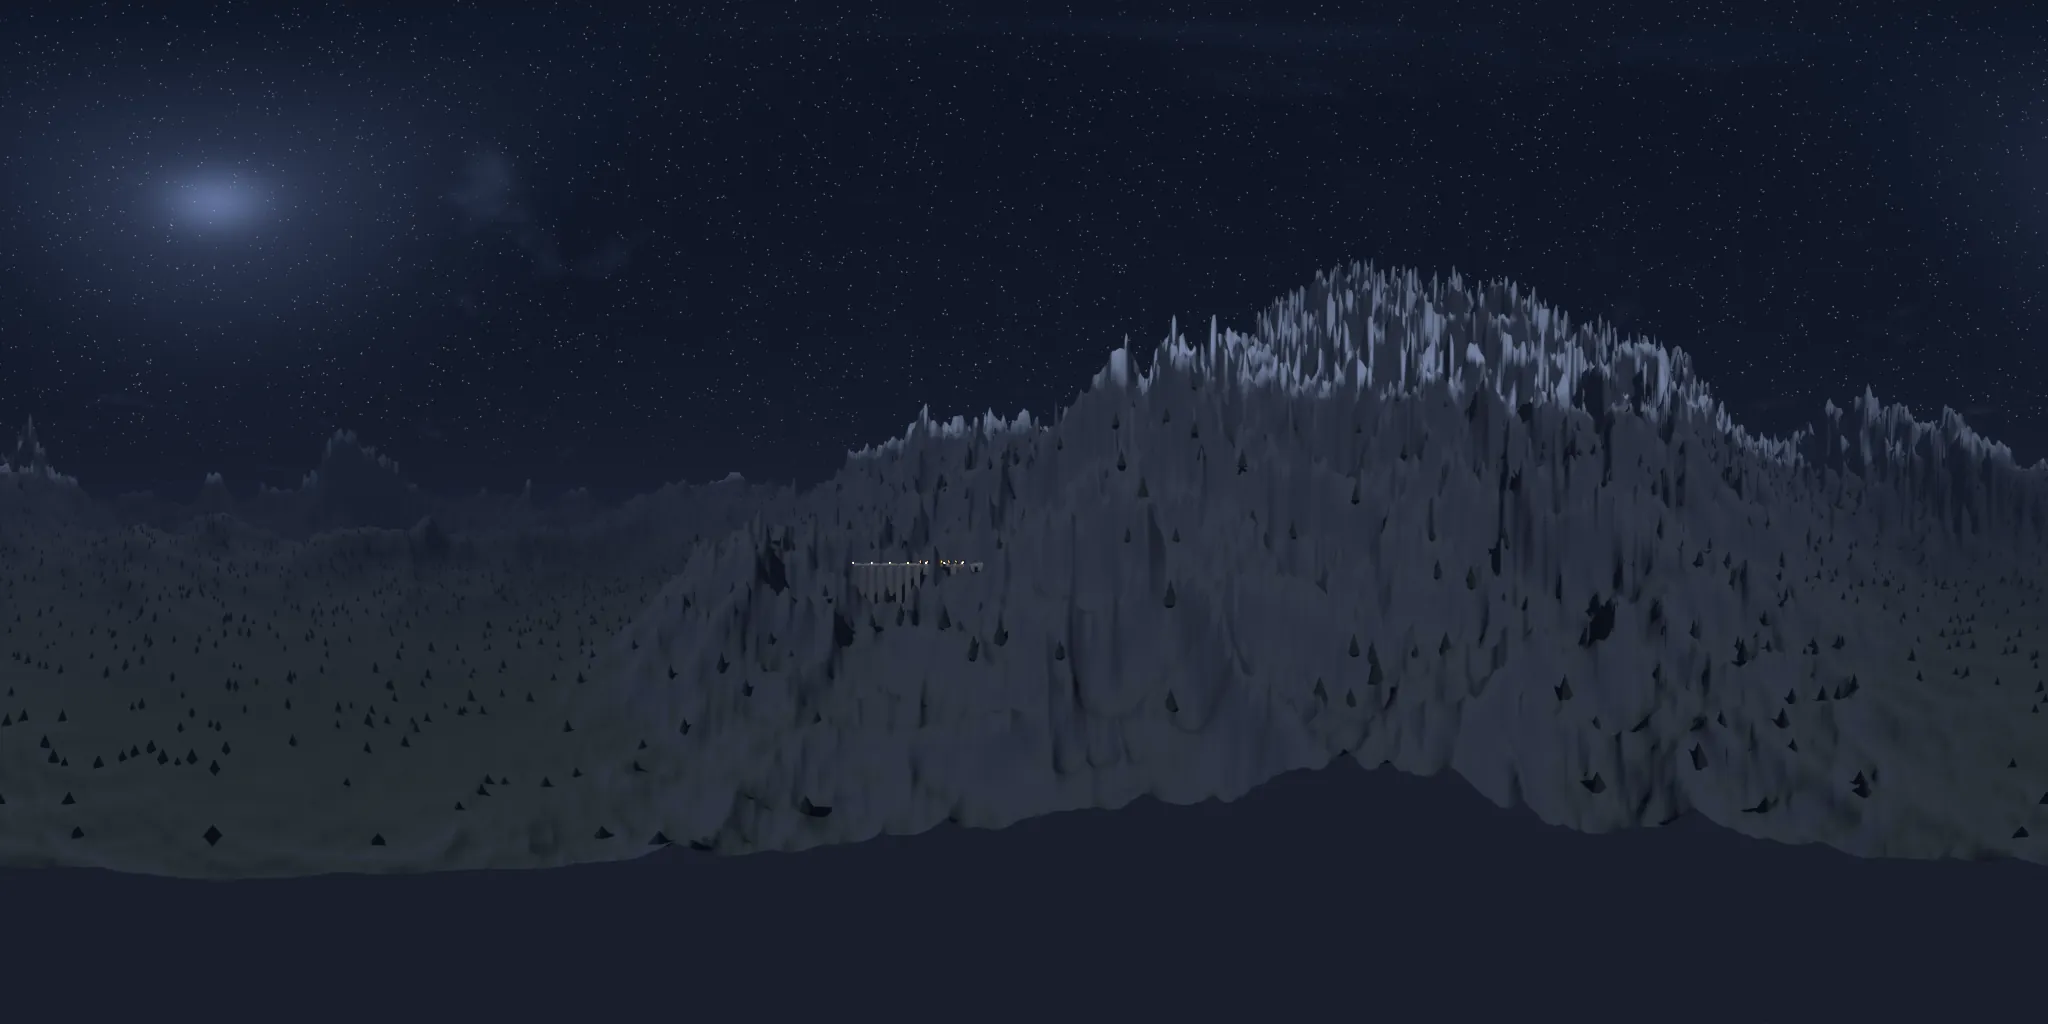
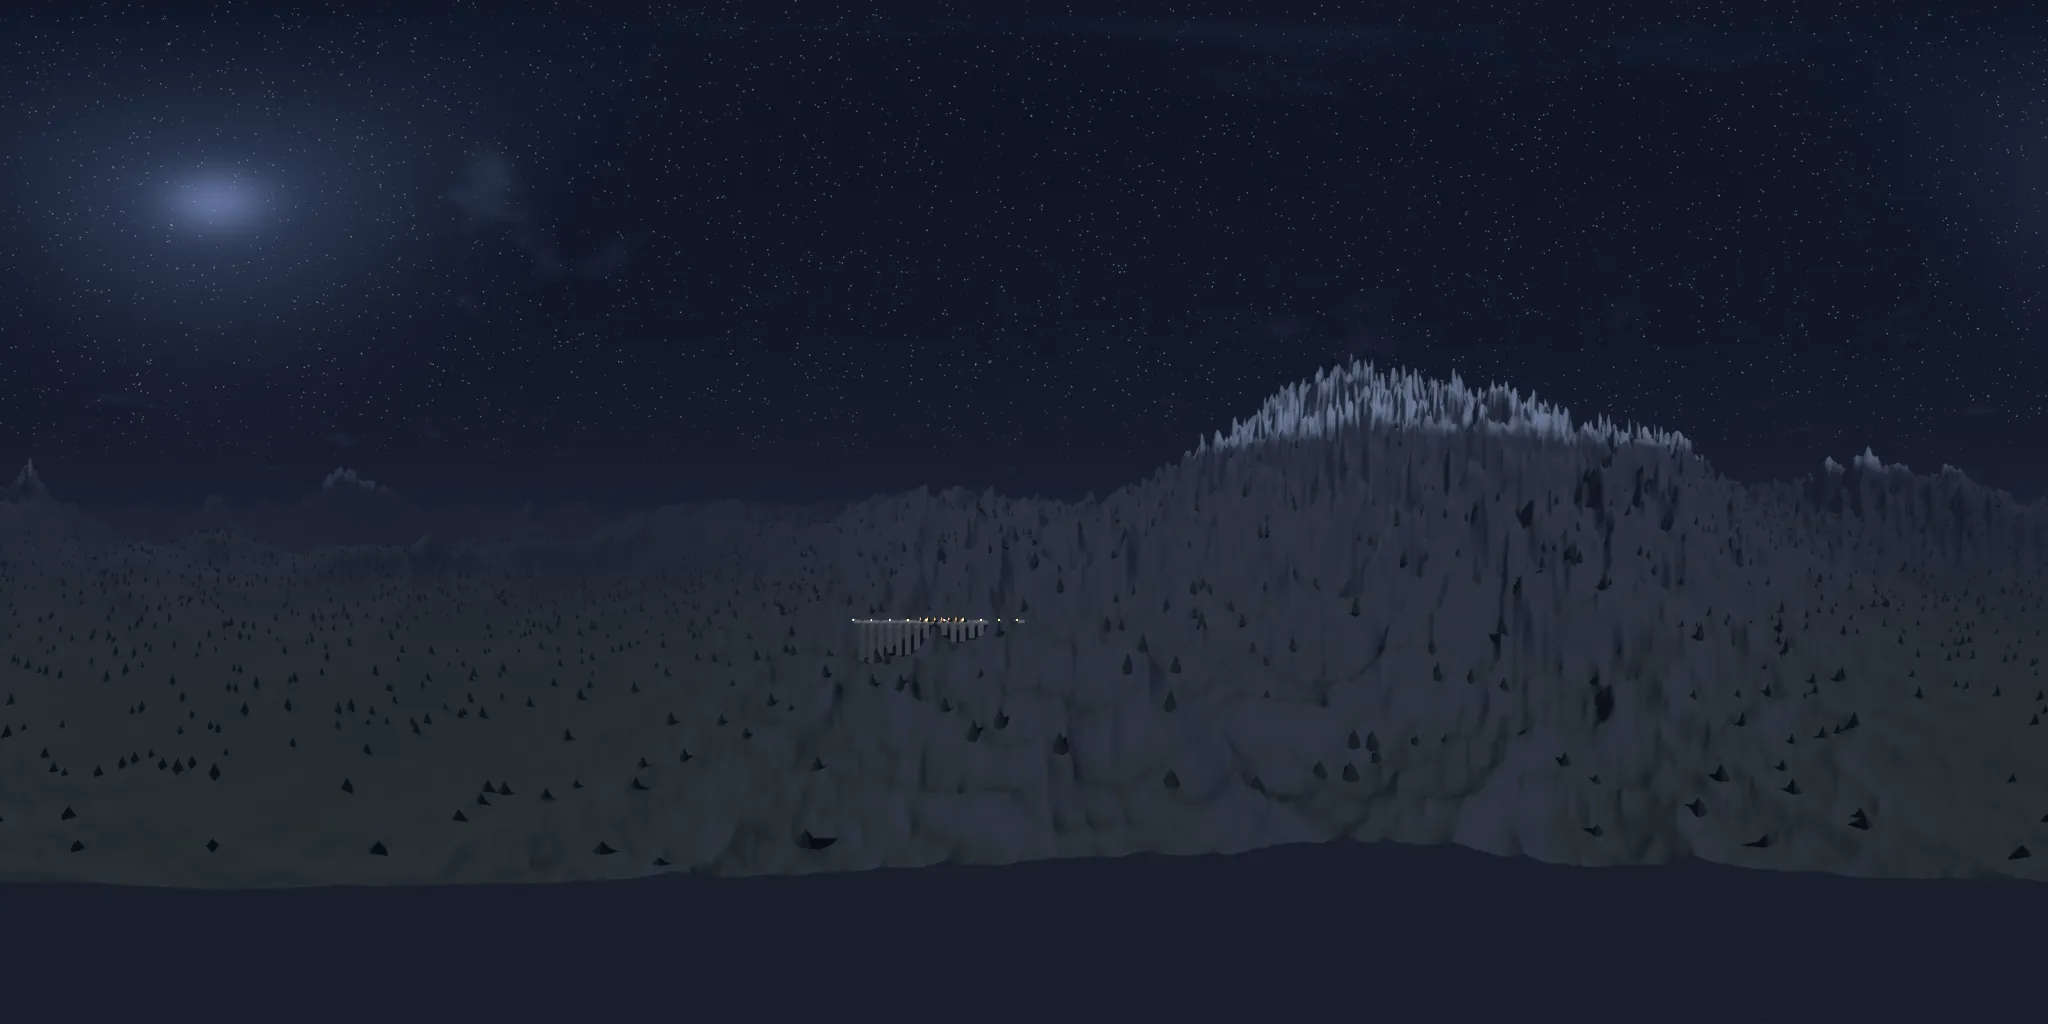
Meridian: re-rendered chapter panoramas and cards (open horizons)
Full-quality Blender renders of every chapter's 360° backdrop and chapter card, made from
the same land as the new terrain. The night train's close valley walls are gone and its
far peaks are lower, so the view from the train is wide instead of a gorge.

diff --git a/games/meridian/assets-src/blender/render_backgrounds.py b/games/meridian/assets-src/blender/render_backgrounds.py
@@ -810,10 +810,10 @@ def ch05(sc, mats, rng, pal):
 
 def ch06(sc, mats, rng, pal):
     """Night Train to Varanask: dark pine mountains, a stone viaduct and a lit train."""
-    bumps = [(rng.uniform(-180, 180), rng.uniform(1500, 5000), rng.uniform(500, 900), rng.uniform(500, 900), None) for _ in range(10)]
+    bumps = [(rng.uniform(-180, 180), rng.uniform(1500, 5000), rng.uniform(500, 900), rng.uniform(300, 550), None) for _ in range(10)]
     # (The old close "valley side" hills are gone: the line runs across open high country now,
     # so the view from the train is wide rather than a gorge.)
-    t = Terrain(66, 900, scale=0.0007, ridged=True, base=-60.0, bumps=bumps, shore=0.25)
+    t = Terrain(66, 650, scale=0.0007, ridged=True, base=-60.0, bumps=bumps, shore=0.25)
     t.build(sc, mats.terrain("night-mtn", "#2b3528", "#4a4d55", snow_hex="#c5cedb", snow_from=650, slope_rock="#3d4048"), 150, 12000)
     trees(sc, mats, t, rng, 3800, (-180, 180), (160, 2400), "#162019", size=(14, 26), kind="pine", min_z=-55, max_z=560)
     via = Batch()
